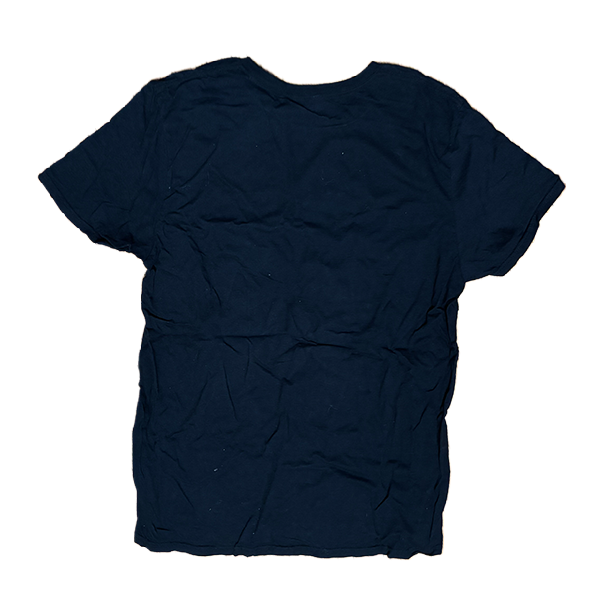
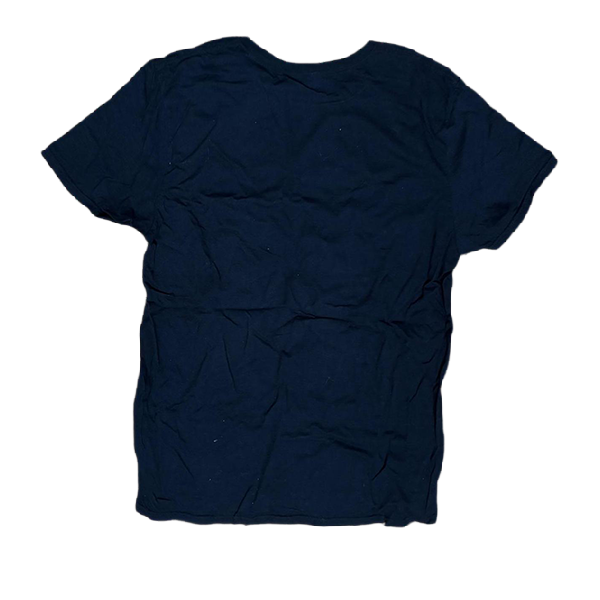
ADD TEES

Changed region(s): [[0.06, 0.06, 0.96, 0.93], [0.51, 0.57, 0.54, 0.6]]

diff --git a/index.html b/index.html
@@ -850,6 +850,28 @@
                         <a href="https://www.depop.com/products/sourcecodevintage-dragon-ball-z-tshirt-size/" target="_blank"><button>Buy</button></a>
                     </div>
 
+                    <!-- Truly Madly Deeply Tee -->
+                    <div class="product-card">
+                        <h3>Truly Madly Deeply Tee</h3>
+                        <div class="contact-image-spacerT">
+                            <section id="spinning-image-section">
+                                <div class="cardT-container">
+                                    <div class="cardT">
+                                        <div class="card-face front">
+                                            <img src="imgs/tee.pngs/trulyFront.png" alt="Front Image">
+                                        </div>
+                                        <div class="card-face back">
+                                            <img src="imgs/tee.pngs/trulyBack.png" alt="Back Image">
+                                        </div>
+                                    </div>
+                                </div>
+                            </section>
+                        </div>
+                        <h5>Womens S</h5>
+                        <p><strong>$25</strong></p>
+                        <a href="https://www.depop.com/products/sourcecodevintane-truly-madly-deeply-womens-v-3d80/" target="_blank"><button>Buy</button></a>
+                    </div>
+
                     <!-- Mario Tee -->
                     <div class="product-card">
                         <h3>Mario Character Tee</h3>
@@ -894,6 +916,28 @@
                         <a href="https://www.depop.com/products/sourcecodevintage-world-of-warcraft-lootcrate-shirt" target="_blank"><button>Buy</button></a>
                     </div>
 
+                    <!-- Beatles Tee -->
+                    <div class="product-card">
+                        <h3>Beatles Tee</h3>
+                        <div class="contact-image-spacerT">
+                            <section id="spinning-image-section">
+                                <div class="cardT-container">
+                                    <div class="cardT">
+                                        <div class="card-face front">
+                                            <img src="imgs/tee.pngs/beatlesT_front.png" alt="Front Image">
+                                        </div>
+                                        <div class="card-face back">
+                                            <img src="imgs/tee.pngs/beatlesT_back.png" alt="Back Image">
+                                        </div>
+                                    </div>
+                                </div>
+                            </section>
+                        </div>
+                        <h5>Mens XL</h5>
+                        <p><strong>$25</strong></p>
+                        <a href="https://www.depop.com/products/sou8cecodevintage-gray-beatles-let-it-be-b8cd" target="_blank"><button>Buy</button></a>
+                    </div>
+
                     <!-- Mayhem Tee -->
                     <div class="product-card">
                         <h3>Mayhem Tee</h3>
@@ -914,6 +958,28 @@
                         <h5>Mens XL</h5>
                         <p><strong>$15</strong></p>
                         <a href="https://www.depop.com/products/sourcekodevintage-black-mayhem-graphic-tee-with-82f8" target="_blank"><button>Buy</button></a>
+                    </div>
+
+                    <!-- Cannibal Holocaust Tee -->
+                    <div class="product-card">
+                        <h3>Cannibal Holocaust Tee</h3>
+                        <div class="contact-image-spacerT">
+                            <section id="spinning-image-section">
+                                <div class="cardT-container">
+                                    <div class="cardT">
+                                        <div class="card-face front">
+                                            <img src="imgs/tee.pngs/cannibalFront.png" alt="Front Image">
+                                        </div>
+                                        <div class="card-face back">
+                                            <img src="imgs/tee.pngs/cannibalBack.png" alt="Back Image">
+                                        </div>
+                                    </div>
+                                </div>
+                            </section>
+                        </div>
+                        <h5>Mens XL</h5>
+                        <p><strong>$20</strong></p>
+                        <a href="https://www.depop.com/products/sourcecodetintage-cannibal-holocaust-black-t-shirt-with-3d55/" target="_blank"><button>Buy</button></a>
                     </div>
 
                     <!-- Naruto Tee -->
@@ -958,6 +1024,28 @@
                         <h5>Mens XL</h5>
                         <p><strong>$20</strong></p>
                         <a href="https://www.depop.com/products/sourcecodevintage-red-and-yellow-flash-t-shirt" target="_blank"><button>Buy</button></a>
+                    </div>
+
+                    <!-- Ajin Tee -->
+                    <div class="product-card">
+                        <h3>Ajin Tee</h3>
+                        <div class="contact-image-spacerT">
+                            <section id="spinning-image-section">
+                                <div class="cardT-container">
+                                    <div class="cardT">
+                                        <div class="card-face front">
+                                            <img src="imgs/tee.pngs/ajinFront.png" alt="Front Image">
+                                        </div>
+                                        <div class="card-face back">
+                                            <img src="imgs/tee.pngs/ajinBack.png" alt="Back Image">
+                                        </div>
+                                    </div>
+                                </div>
+                            </section>
+                        </div>
+                        <h5>Mens S</h5>
+                        <p><strong>$20</strong></p>
+                        <a href="https://www.depop.com/products/sourcecodevinta8e-black-t-shirt-with-white-graphic-de6d" target="_blank"><button>Buy</button></a>
                     </div>
 
                     <!-- Baby Yoda Tee -->
